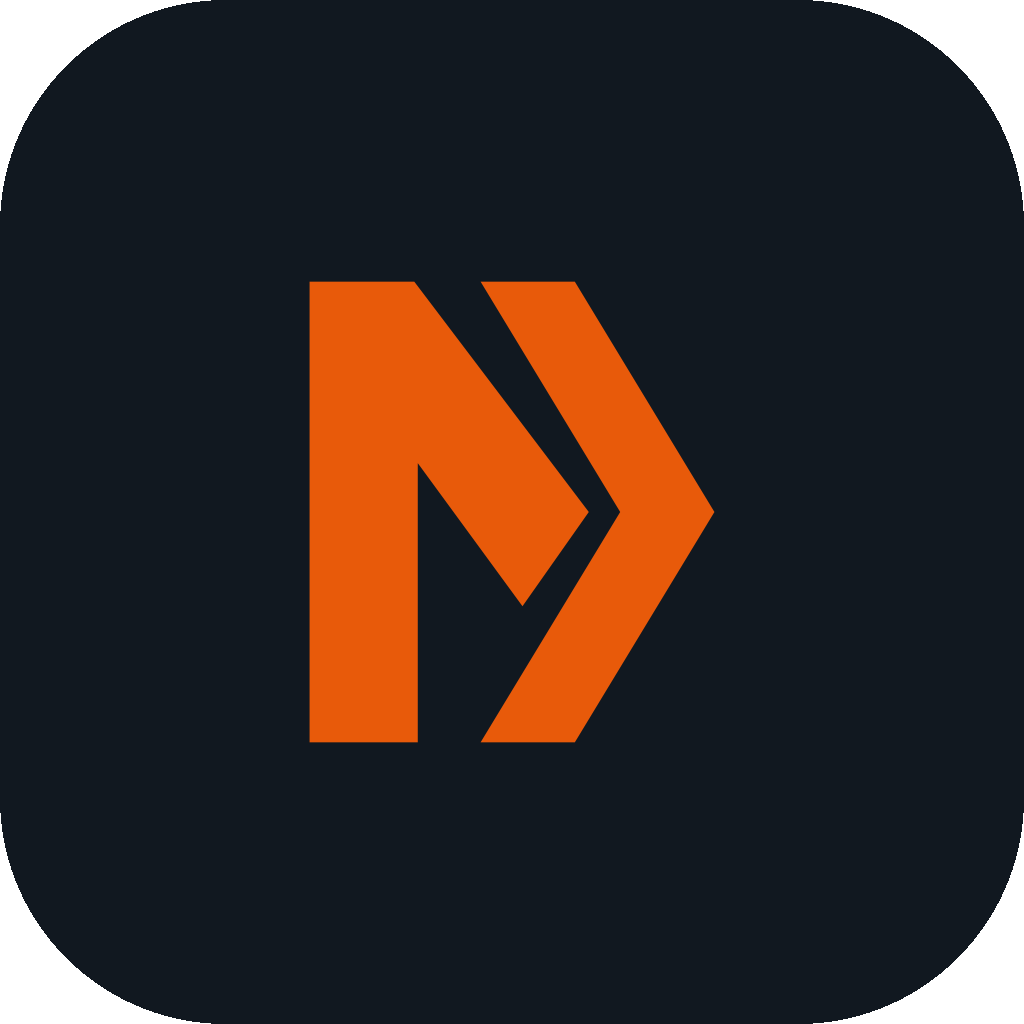
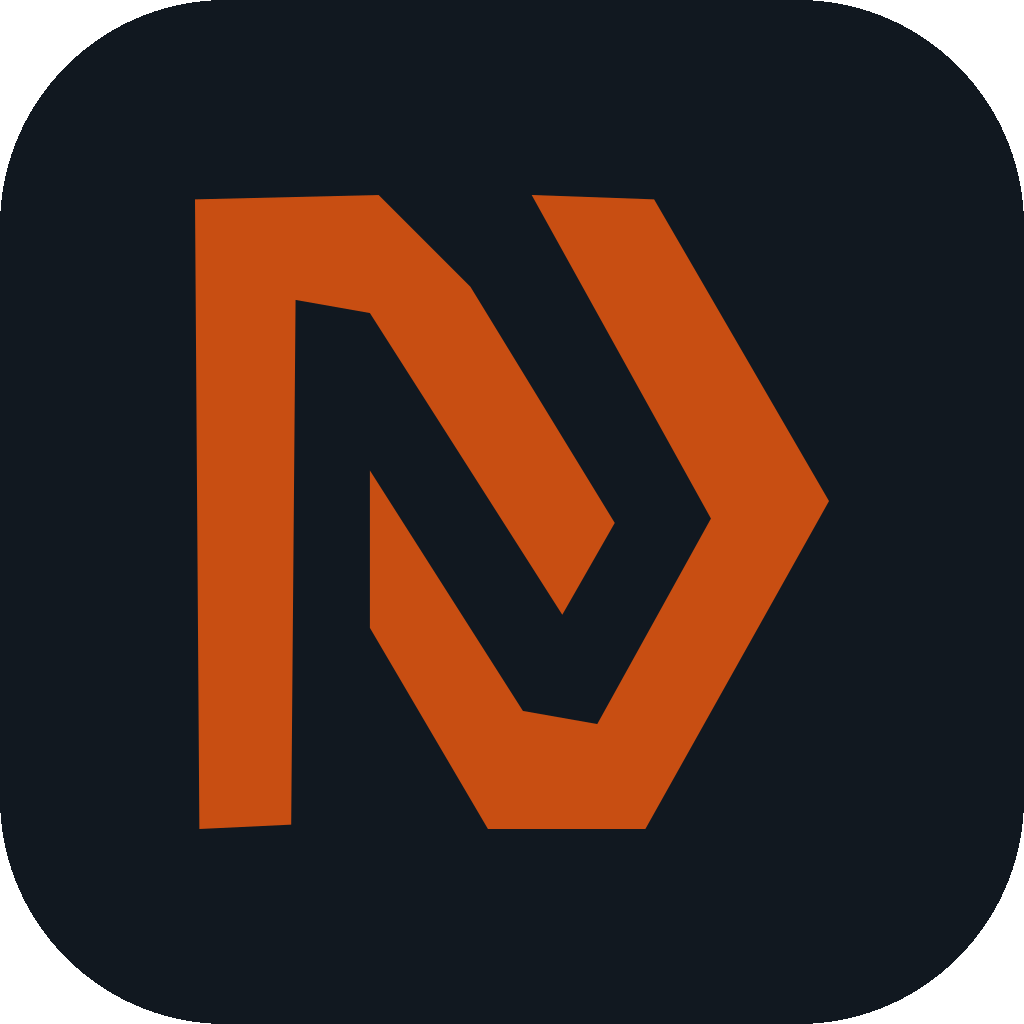
v0.3.3.7
Revised logo and splash

Changed region(s): [[0.1875, 0.1875, 0.8125, 0.8125]]

diff --git a/index.html b/index.html
@@ -1468,29 +1468,29 @@ body::before {
       }
 
 </style>
-    <link rel="icon" href="favicon.ico?v=0.3.3.5" sizes="any" />
-    <link rel="icon" href="momntum-mark.svg?v=0.3.3.5" type="image/svg+xml" />
-    <link rel="icon" href="favicon-32x32.png?v=0.3.3.5" type="image/png" sizes="32x32" />
-    <link rel="icon" href="favicon-16x16.png?v=0.3.3.5" type="image/png" sizes="16x16" />
-    <link rel="apple-touch-icon" href="apple-touch-icon.png?v=0.3.3.5" sizes="180x180" />
-    <link rel="manifest" href="site.webmanifest?v=0.3.3.5" />
+    <link rel="icon" href="favicon.ico?v=0.3.3.7" sizes="any" />
+    <link rel="icon" href="momntum-mark.svg?v=0.3.3.7" type="image/svg+xml" />
+    <link rel="icon" href="favicon-32x32.png?v=0.3.3.7" type="image/png" sizes="32x32" />
+    <link rel="icon" href="favicon-16x16.png?v=0.3.3.7" type="image/png" sizes="16x16" />
+    <link rel="apple-touch-icon" href="apple-touch-icon.png?v=0.3.3.7" sizes="180x180" />
+    <link rel="manifest" href="site.webmanifest?v=0.3.3.7" />
   </head>
   <body class="launchPending">
     <div id="launchSplash" class="launchSplash" aria-hidden="true">
-      <div id="launchLogo" class="launchLogo"><img src="momntum-mark.svg?v=0.3.3.5" alt="" draggable="false" /></div>
-      <div class="launchVersion">v0.3.3.5</div>
+      <div id="launchLogo" class="launchLogo"><img src="momntum-mark.svg?v=0.3.3.7" alt="" draggable="false" /></div>
+      <div class="launchVersion">v0.3.3.7</div>
     </div>
 
     <div class="app" id="app">
       <header class="topbar">
         <div class="brand">
           <div class="logo momntumAppIcon" id="headerBrandLogo" aria-hidden="true">
-            <img src="momntum-mark.svg?v=0.3.3.5" alt="" draggable="false" />
+            <img src="momntum-mark.svg?v=0.3.3.7" alt="" draggable="false" />
           </div>
           <div>
             <div class="title momntumWordmark">
               <img
-                src="momntum-wordmark-dark.svg?v=0.3.3.5"
+                src="momntum-wordmark-dark.svg?v=0.3.3.7"
                 alt="MOMNTUM"
                 draggable="false"
               />
@@ -1926,7 +1926,7 @@ body::before {
       const STORAGE_KEY = "homeStrength.v1";
       const APP_INFO = {
         name: "MOMNTUM",
-        version: "0.3.3.5",
+        version: "0.3.3.7",
         buildDate: "29 July 2026",
         creator: "Mark Taylor",
         poweredBy: "Offline PWA • HTML • CSS • JavaScript",
